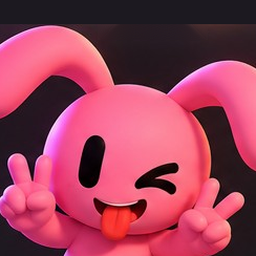
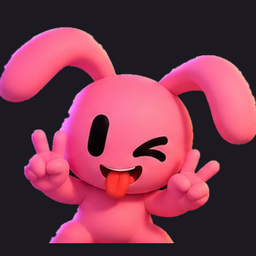
Hase: neues Kopfbild, Cache-Version erhöht
Claude-Session: https://claude.ai/code/session_01XuEgEKXH5CVDx1qfGUkAmV

diff --git a/public/sw.js b/public/sw.js
@@ -1,7 +1,7 @@
 'use strict';
 /* UNKNOWN – Service Worker: App-Hülle und Bilder offline zwischenspeichern.
    Spielstand läuft ausschließlich über WebSocket und wird nie gecacht. */
-const VERSION = 'unknown-v4';
+const VERSION = 'unknown-v5';
 const SHELL = ['/', '/css/style.css', '/js/app.js', '/data/sets.json', '/data/avatars.json', '/manifest.webmanifest', '/assets/logo.png'];
 
 self.addEventListener('install', (e) => {
